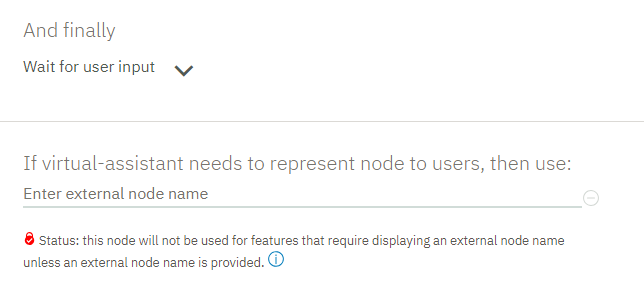
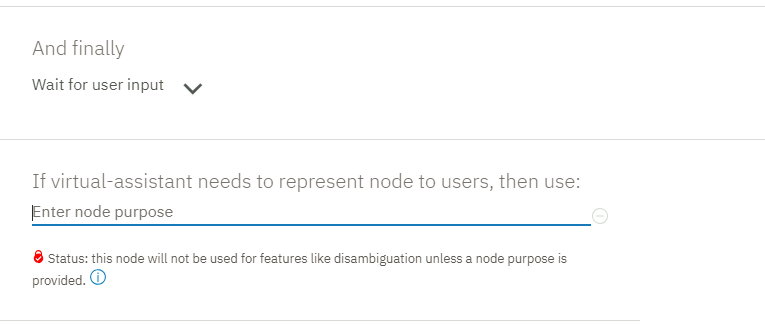
Adding disambiguation feature info

diff --git a/dialog-runtime.md b/dialog-runtime.md
@@ -2,7 +2,7 @@
 
 copyright:
   years: 2015, 2018
-lastupdated: "2018-07-13"
+lastupdated: "2018-08-03"
 
 ---
 
@@ -795,3 +795,165 @@ Follow the [tutorial](tutorial-digressions.html) to import a workspace that has 
 - **When to use digressions instead of slot handlers**: For general questions that users might ask at any time, use a root node that allows digressions into it, processes the input, and then goes back to the flow that was in progress. For nodes with slots, try to anticipate the types of related questions users might want to ask while filling in the slots, and address them by adding handlers to the node.
 
   For example, if the node with slots collects the information required to fill out an insurance claim, then you might want to add handlers that address common questions about insurance. However, for questions about how to get help, or your stores locations, or the history of your company, use a root level node.
+
+## Disambiguation ![Premium plan only](images/premium0.png)
+{: #disambiguation}
+
+This feature is available only to Premium users.
+{: tip}
+
+When you enable disambiguation, you instruct the service to ask users for help when it finds that more than one dialog node can respond to their input. Instead of guessing which node to process, your assistant shares a list of the top node options with the user, and asks the user to pick the right one.
+
+![Shows a sample conversation between a user and the assistant, where the assistant asks for clarification from the user.](images/disambig-demo.png)
+
+If enabled, disambiguation is not triggered unless the following conditions are met:
+
+- The confidence score of one or more of the runner-up intents detected in the user input is greater than 55% of the confidence score of the top intent.
+- The confidence score of the top intent is above 0.2.
+
+Even when these conditions are met, disambiguation does not occur unless two or more independent nodes in your dialog meet the following criteria:
+
+- The node condition includes one of the intents that triggered disambiguation. Or the node condition otherwise evaluates to true. For example, if the node checks for an entity type and the entity is mentioned in the user input, it is eligible.
+- There is text in the node's *node purpose* field.
+
+### Disambiguation example
+{: #disambig-example}
+
+For example, you have a dialog that has two nodes with intent conditions that address cancellation requests. The conditions are:
+
+- eCommerce_Cancel_Product_Order
+- Customer_Care_Cancel_Account
+
+If the user input is `i must cancel it today`, then the following intents might be detected in the input:
+
+`[`
+`{"intent":"Customer_Care_Cancel_Account","confidence":0.6618281841278076},`
+`{"intent":"eCommerce_Cancel_Product_Order","confidence":0.4330700159072876},`
+`{"intent":"Customer_Care_Appointments","confidence":0.2902342438697815},`
+`{"intent":"Customer_Care_Store_Hours","confidence":0.2550420880317688},`
+`...]`
+
+The service is `0.6618281841278076` (66%) confident that the user goal matches the `#Customer_Care_Cancel_Account` intent. If any other intent has a confidence score that is greater than 55% of 66%, then it fits the criteria for being a disambiguation candidate.
+
+`0.66 x 0.55 = 0.36`
+
+Intents with a score that is greater than 0.36 are eligible.
+
+In our example, the `#eCommerce_Cancel_Product_Order` intent is over the threshold, with a confidence score of `0.4330700159072876`.
+
+When the user input is `i must cancel it today`, both dialog nodes will be considered viable candidates to respond. To determine which dialog node to process, the assistant asks the user to pick one. And to help the user choose between them, the assistant provides a short summary of what each node does. The summary text it displays is extracted directly from the *node purpose* information that was specified for each node.
+
+![Service prompts the user to choose from a list of dialog options, including Cancel an account, Cancel a product order, and None of the above.](images/disambig-tryitout.png)
+
+Notice that the service recognizes the term `today` in the user input as a date, a mention of the `@sys-date` entity. If your dialog tree contains a node that condition on the `@sys-date` entity, then it is also included in the list of disambiguation choices. This image shows it included in the list as the *Capture date information* option.
+
+![Service prompts the user to choose from a list of dialog options, including Capture date information.](images/disambig-tryitout-date.png)
+
+The following video provides an overview of disambiguation.
+
+<iframe class="embed-responsive-item" id="youtubeplayer0" title="Disambiguation overview" type="text/html" width="640" height="390" src="https://www.youtube.com/embed/VVyklAXlmbA?rel=0" frameborder="0" webkitallowfullscreen mozallowfullscreen allowfullscreen> </iframe>
+
+### Enabling disambiguation
+{: #disambiguation-enable}
+
+To enable disambiguation, complete the following steps:
+
+1.  From the Dialogs page, click **Settings**.
+1.  Click **Disambiguation**.
+1.  In the *Enable disambiguation* section, switch the toggle to **On**.
+1.  In the prompt message field, add text to show before the list of dialog node options. For example, *What do you want to do?*
+1.  **Optional**: In the none of the above message field, add text to display as an additional option that users can pick if none of the other dialog nodes reflect what the user wants to do. For example, *None of the above*.
+
+    Keep the message short, so it displays inline with the other options. The message must be less than 512 characters. For information about what the service does if a user chooses this option, see [Handling none of the above](#handle-none).
+
+1.  Click **Close**
+1.  Decide which dialog nodes you want the assistant to ask for help with.
+
+    - You can pick nodes at any level of the tree hierarchy.
+    - You can pick nodes that condition on intents, entities, special conditions, context variables, or any combination of these values.
+
+    See [Choosing nodes](#choose-nodes) for tips.
+
+    For each node that you want to opt in to disambiguation, complete the following steps:
+
+    1.  Click to open the node in edit view.
+    1.  In the *node purpose* field, describe the user task that this dialog node is designed to handle. For example, *Cancel an account*.
+
+        ![Shows where to add the node purpose information in the node edit view.](images/disambig-node-purpose.png)
+
+### Choosing nodes
+{: #choose-nodes}
+
+Choose nodes that serve as the root of a distinct branch of the dialog to be disambiguation choices. These can include nodes that are children of other nodes. The key is for the node to condition on some distinct value or values that distinguish it from everything else.
+
+**Note**: The tool can recognize intent conflicts, which occur when two or more intents have user examples that overlap. [Resolve any such conflicts](intents.html#conflict-intents) first to ensure that the intents themselves are as unique as possible, which helps the service attain better intent confidence scores.
+
+Keep in mind:
+
+- For nodes that condition on intents, if the service is confident that the node's intent condition matches the user's intent, then the node is included as a disambiguation option.
+- For nodes with boolean conditions (conditions that evaluate to either true or false), the node is included as a disambiguation option if the condition evaluates to true. For example, when the node conditions on an entity type, if the entity is mentioned in the input that triggers disambiguation, then the node is included.
+- The order of nodes in the tree hierarchy impacts disambiguation.
+
+  - It impacts whether disambiguation is triggered at all
+  
+    Look at the [scenario](#disambig-example) that is used earlier to introduce disambiguation, for example. If the node that conditions on `@sys-date` was placed higher in the dialog tree than the nodes that condition on the `#Customer_Care_Cancel_Account` and `#eCommerce_Cancel_Product_Order` intents, disambiguation would never be triggered when a user enters, `i must cancel it today`. That's because the service would consider the date mention (`today`) to be more important than the intent references due to the placement of the corresponding nodes in the tree.
+
+  - It impacts which nodes are included in the disambiguation options list
+  
+    Sometimes a node is not listed as a disambiguation option as expected. This can happen if a condition value is also referenced by a node that is not eligible for inclusion in the disambiguation list for some reason. For example, an entity mention might trigger a node that is situated earlier in the dialog tree but is not enabled for disambiguation. If the same entity is the only condition for a node that *is* enabled for disambiguation, but is situated lower in the tree, then it is not added as a disambiguation option because the service never reaches it. It matched against the earlier node and was omitted, so the service does not process the later node.
+
+For each node that you opt in to disambiguation, test scenarios in which you expect the node to be included in the disambiguation options list. Testing gives you a chance to make adjustments to the node order or other factors that might impact how well disambiguation works at run time.
+
+### Handling none of the above
+{: #handle-none}
+
+When a user clicks the *None of the above* option, the service strips the intents that were recognized in the user input from the message and submits it again. This action typically triggers the anything else node in your dialog tree.
+
+To customize the response that is returned in this situation, you can add a root node with a condition that checks for a user input with no recognized intents (the intents are stripped, remember) and contains a `suggestion_id` property. A `suggestion_id` property is added by the service when disambiguation is triggered.
+{: tip}
+
+Add a root node with the following condition:
+
+```json
+intents.size()==0 && input.suggestion_id
+```
+{: codeblock}
+
+This condition is met only by input that has triggered a set of disambiguation options of which the user has indicated none match her goal.
+
+Add a response that lets users know that you understand that none of the options that were suggested met their needs, and take appropriate action.
+
+Again, the placement of nodes in the tree matters. If a node that conditions on an entity type that is mentioned in the user input is higher in the tree than this node, its response is displayed instead.
+
+### Testing disambiguation
+{: #disambiguation-test}
+
+To test disambiguation, complete the following steps:
+
+1.  From the "Try it out" pane, enter a test utterance that you think is a good candidate for disambiguation, meaning two or more of your dialog nodes are configured to address utterances like it.
+
+1.  If the response does not contain a list of dialog node options for you to choose from as expected, first check that you added summary information to the node purpose field for each of the nodes.
+
+1.  If disambiguation is still not triggered, it might be that the confidence scores for the nodes are not as close in value as you thought. 
+
+    You can get information about the intents, entities, and other properties that are returned for certain user inputs.
+
+    - To see the confidence scores of the intents that were detected in user input, temporarily add `<? intents ?>` to the end of the node response for a node that you know will be triggered.
+
+      This SpEL expression shows the intents that were detected in the user input as an array. The array includes the intent name and the level of confidence that the service has that the intent reflects the user's intended goal.
+
+    - To see which entities, if any, were detected in the user input, you can temporarily replace the current response with a single text response that contains the SpEL expression, `<? entities ?>`.
+
+      This SpEL expression shows the entities that were detected in the user input as an array. The array includes the entity name, location of the entity mention within the user input string, the entity mention string, and the level of confidence that the service has that the term is a mention of the entity type specified.
+
+    - To see details for all of the artifacts at once, including other properties, such as the value of a given context variable at the time of the call, you can inspect the entire API response. See [Viewing API call details](dialog-tips.html#inspect-api).
+
+1.  Temporarily remove the description you added to the *node purpose* field for at least one of the nodes that you anticipate will be listed as a disambiguation option.
+
+1.  Enter the test utterance into the "Try it out" pane again.
+
+    If you added the `<? intents ?>` expression to the response, then the text returned includes a list of the intents that the service recognized in the test utterance, and includes the confidence score for each one.
+
+    ![Service returns an array of intents, including Customer_Care_Cancel_Account and eCommerce_Cancel_Product_Order.](images/disambig-show-intents.png)
+
+After you finish testing, remove any SpEL expressions that you appended to node responses, or add back any original responses that you replaced with expressions, and repopulate any *node purpose* fields from which you removed text.

diff --git a/release-notes.md b/release-notes.md
@@ -2,7 +2,7 @@
 
 copyright:
   years: 2015, 2018
-lastupdated: "2018-07-14"
+lastupdated: "2018-08-03"
 ---
 
 {:shortdesc: .shortdesc}
@@ -54,6 +54,15 @@ The method used to authenticate with IAM service instances is different from the
 
 The following new features and changes to the service are available.
 
+### 3 August 2018
+{: #3August2018}
+
+- **Intent conflict resolution ![Premium plan only](images/premium0.png)**: The tool can now help you to resolve conflicts when two or more user examples in separate intents are similar to one another. Non-distinct user examples can weaken the training data and make it harder for the service to map user input to the appropriate intent at run time. See [Resolving intent conflicts](intents.html#conflict-intents) for details.
+
+- **Disambiguation** ![Premium plan only](images/premium0.png): Enable disambiguation to allow your assistant to ask the user for help when it needs to decide between two or more viable dialog nodes to process for a response. See [Disambiguation](dialog-runtime.html#disambiguation) for more details.
+
+- **Jump-to fix**: Fixed a bug in the Dialogs tool which prevented you from being able to configure a jump-to that targets the response of a node with the `anything_else` special condition.
+
 ### 12 July 2018
 {: #12July2018}
 
@@ -102,7 +111,7 @@ The following new features and changes to the service are available.
 
   When you use any of the Watson SDKs, you can pass the API key and let the SDK manage the lifecycle of the tokens. For more information and examples, see [Authentication ![External link icon](../../icons/launch-glyph.svg "External link icon")](https://www.ibm.com/watson/developercloud/assistant/api/v1/curl.html?curl#authentication){: new_window} in the API reference.
 
-  If you are not sure which type of authentication to use, view the service credentials by clicking the service instance on the [Dashboard ![External link icon](../../icons/launch-glyph.svg "External link icon")](https://console.bluemix.net/dashboard/apps?watson){: new_window}.
+  If you are not sure which type of authentication to use, view the service credentials by clicking the service instance on the [Dashboard ![External link icon](../../icons/launch-glyph.svg "External link icon")](https://console.bluemix.net/dashboard/apps?category=ai){: new_window}.
 
 ### 25 May 2018
 {: #25May2018}

diff --git a/dialog-tips.md b/dialog-tips.md
@@ -2,7 +2,7 @@
 
 copyright:
   years: 2015, 2018
-lastupdated: "2018-07-20"
+lastupdated: "2018-08-03"
 
 ---
 
@@ -81,6 +81,8 @@ It can be difficult to know the syntax to use in your dialog node to accurately 
   See [Expression language methods for String](dialog-methods.html#strings) to learn about more methods you can use.
 
 - **Dealing with multiple intents**: A user enters input that expresses a wish to complete two separate tasks. `I want to open a savings account and apply for a credit card.` How does the dialog recognize and address both of them? See the [Compound questions](https://sodoherty.ai/2017/02/06/compound-questions/){: new_window} entry from Simon O'Doherty's blog for strategies you can try. (Simon is a developer on the {{site.data.keyword.conversationshort}} team.)
+
+- **Dealing with ambiguous intents**: A user enters input that expresses a wish that is ambiguous enough that the service finds two or more nodes with intents that could potentially address it. How does the dialog know which dialog branch to follow? If you enable disambiguation, it can show users their options and ask the user to pick the right one. See [Disambiguation](dialog-runtime.html#disambiguation) for more details.
 
 - **Handling multiple entities in input**: If you want to evaluate only the value of the first detected instance of an entity type, you can use the syntax  `@entity == 'specific-value'` instead of the `@entity:(specific-value)` format.
 

diff --git a/sample-applications.md b/sample-applications.md
@@ -2,7 +2,7 @@
 
 copyright:
   years: 2015, 2018
-lastupdated: "2018-05-18"
+lastupdated: "2018-08-01"
 
 ---
 
@@ -38,7 +38,7 @@ This Node.js app is a fully developed example of the type of app you can build w
 
 This app demonstrates the combination of {{site.data.keyword.conversationshort}} and {{site.data.keyword.discoveryshort}}. First, users pose questions to the {{site.data.keyword.conversationshort}} service. If {{site.data.keyword.conversationshort}} is not able to answer confidently, {{site.data.keyword.conversationshort}} Enhanced executes a call to {{site.data.keyword.discoveryshort}} to provide the user with a list of helpful answers.
 
-[See the demo ![External link icon](../../icons/launch-glyph.svg "External link icon")](https://assistant-with-discovery.ng.bluemix.net/dist/index.html){: new_window} or [fork the code ![External link icon](../../icons/launch-glyph.svg "External link icon")](https://github.com/watson-developer-cloud/assistant-with-discovery){: new_window}.
+[See the demo ![External link icon](../../icons/launch-glyph.svg "External link icon")](https://assistant-with-discovery-openwhisk-demo.ng.bluemix.net/){: new_window} or [fork the code ![External link icon](../../icons/launch-glyph.svg "External link icon")](https://github.com/watson-developer-cloud/assistant-with-discovery-openwhisk){: new_window}.
 
 ## {{site.data.keyword.conversationshort}} and {{site.data.keyword.toneanalyzershort}}
 

diff --git a/services-information.md b/services-information.md
@@ -2,7 +2,7 @@
 
 copyright:
   years: 2015, 2018
-lastupdated: "2018-07-18"
+lastupdated: "2018-08-03"
 
 ---
 
@@ -61,7 +61,7 @@ You can create {{site.data.keyword.conversationshort}} service instances that ar
 |-------------|---------------|---------------------|-------------------|-------|
 | Sydney      | syd           | IAM                 | 7 May 2018 | Instances created before May 7 were syndicated to the US South data center |
 | Germany     | eu-de         | Cloud Foundry       | Planned for August 2018 | N/A |
-| United Kingdom |  eu-gb     | N/A                 | Instances are syndicated to US South |
+| United Kingdom |  eu-gb     | N/A                 | N/A        | Instances are syndicated to US South |
 | US East     | us-east       | IAM                 | 14 June 2018 | N/A |
 | US South    | us-south      | Cloud Foundry       | Planned for August 2018 | N/A |
 {: caption="Data center locations" caption-side="top"}
